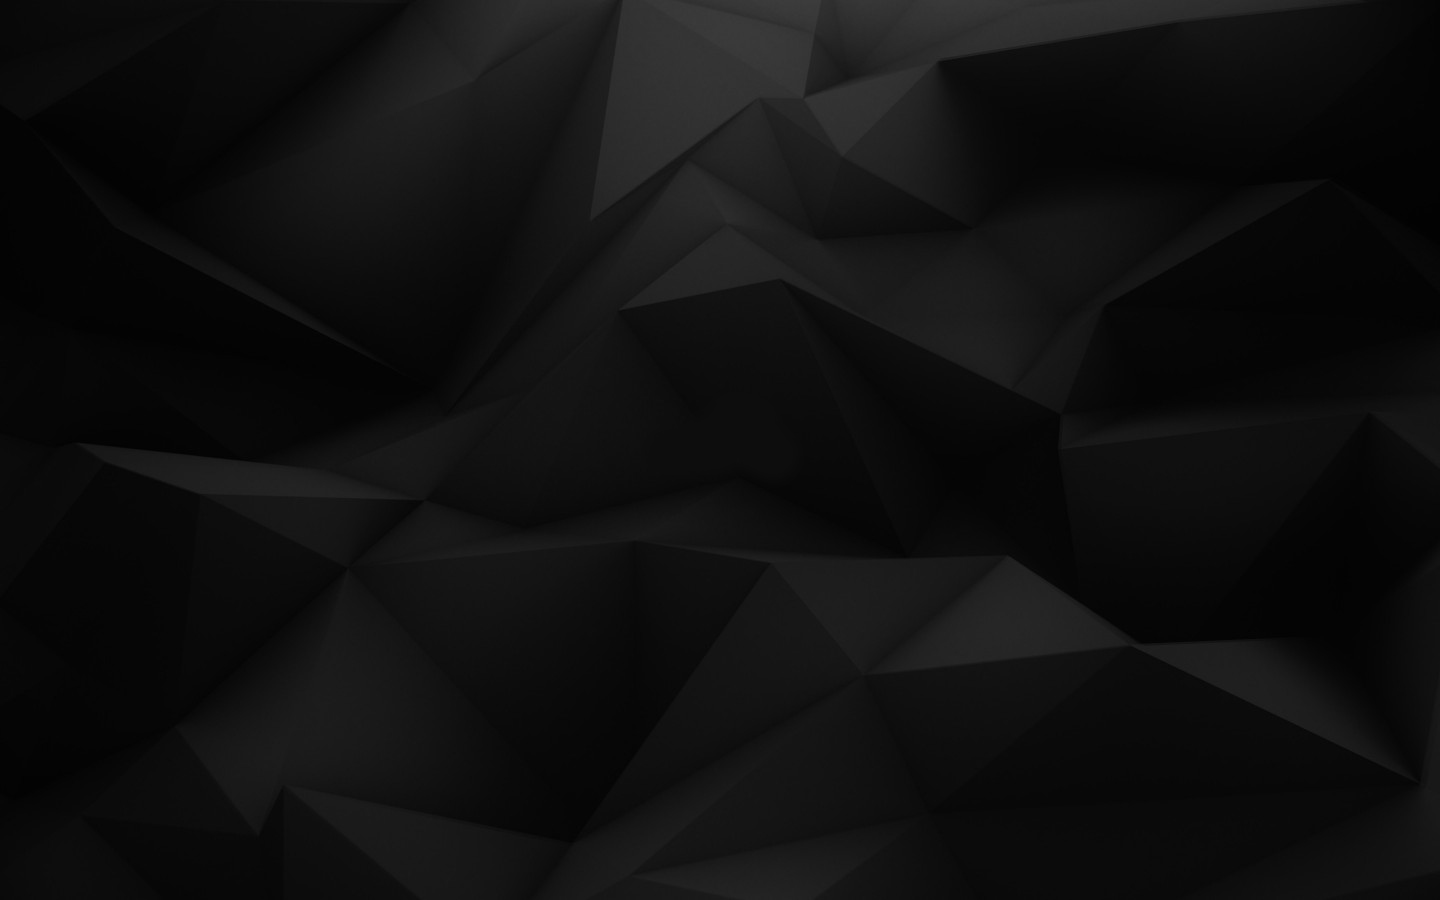
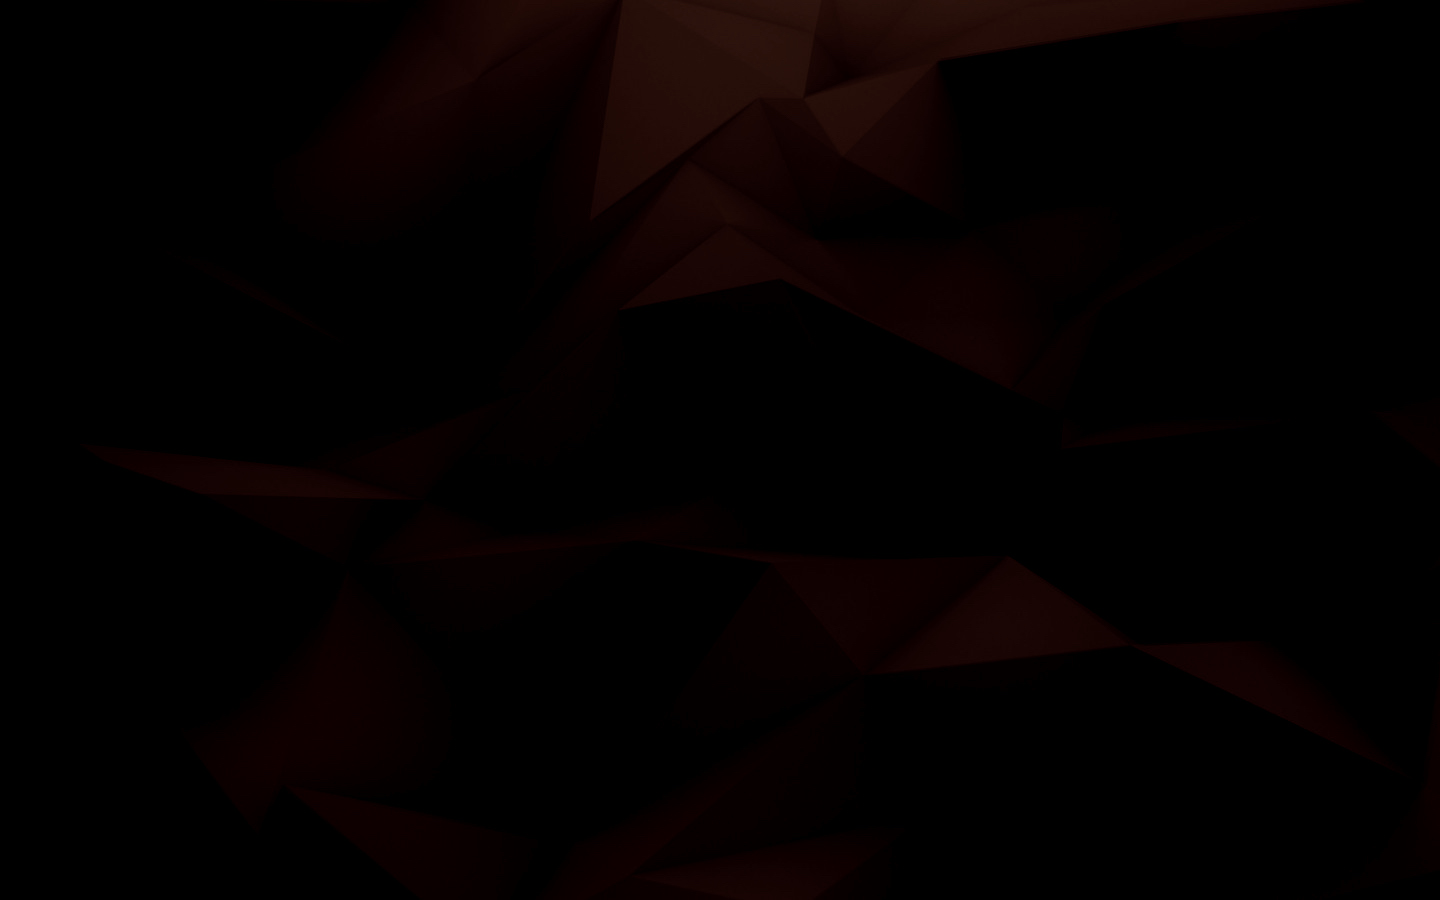
Add new images. Improve styling.

diff --git a/app/src/main/resources/static/_contact.html b/app/src/main/resources/static/_contact.html
@@ -117,28 +117,28 @@
 				<div id="contact-first-row-right" class="mdl-cell mdl-cell--6-col"></div>
 			</div>
 			<div id="contact-second-row" class="mdl-grid">
-				<div id="contact-second-row-left" class="mdl-cell mdl-cell--8-col"></div>
+				<div class="mdl-cell mdl-cell--7-col"></div>
 				<div class="mdl-cell mdl-cell--4-col">
 					<div class="">
 						<div class="mdl-grid">
 							<div class="mdl-cell mdl-cell--1-col"></div>
 							<div class="contact-1 mdl-cell mdl-cell--11-col">
 								<div>
-									<a href="mailto:kayhandehghani@gmail.com">kayhandehghani@gmail.com</a>
+									<a class="my-contacts" id="my-email" href="mailto:kayhandehghani@gmail.com">kayhandehghani@gmail.com</a>
 								</div>
 							</div>
 						</div>
 						<div class="mdl-grid">
 							<div class="mdl-cell mdl-cell--1-col"></div>
 							<div class="contact-2 mdl-cell mdl-cell--11-col">
-								<div>+1 778-858-3785</div>
+								<div class="my-contacts" >+ 1   7 7 8 - 8 5 8 - 3 7 8 5</div>
 							</div>
 						</div>
 						<div class="mdl-grid">
 							<div class="mdl-cell mdl-cell--1-col"></div>
 							<div class="contact-3 mdl-cell mdl-cell--11-col">
 								<div>
-									<a href="https://www.linkedin.com/in/kayhan-dehghani-65889273/"><img
+									<a class="my-contacts" href="https://www.linkedin.com/in/kayhan-dehghani-65889273/"><img
 										src="../img/linkedin.svg" alt="Smiley face" height="25"
 										width="25"></a>
 								</div>
@@ -148,7 +148,7 @@
 							<div class="mdl-cell mdl-cell--1-col"></div>
 							<div class="contact-4 mdl-cell mdl-cell--11-col">
 								<div>
-									<a href="https://github.com/kayhandehghani"><img
+									<a class="my-contacts" href="https://github.com/kayhandehghani"><img
 										src="../img/github-logo-black.svg" alt="Smiley face"
 										height="25" width="25"></a>
 								</div>
@@ -156,6 +156,7 @@
 						</div>
 					</div>
 				</div>
+				<div class="mdl-cell mdl-cell--1-col"></div>
 			</div>
 
 		</div>

diff --git a/app/src/main/resources/static/css/main.css b/app/src/main/resources/static/css/main.css
@@ -1,19 +1,20 @@
 @keyframes shake {
   10%, 90% {
-    transform: translate3d(-1px, 0, 0);
+    transform: translate3d(-3px, 0, 0);
   }
   
   20%, 80% {
-    transform: translate3d(2px, 0, 0);
+    transform: translate3d(3px, 0, 0);
   }
 
   30%, 50%, 70% {
-    transform: translate3d(-4px, 0, 0);
+    transform: translate3d(-1px, 0, 0);
+  }
+  
+  40%, 60% {
+    transform: translate3d(1px, 0, 0);
   }
 
-  40%, 60% {
-    transform: translate3d(4px, 0, 0);
-  }
 }
 
 @keyframes slideInColorLeft {
@@ -141,14 +142,10 @@ h5, h6 {
 .td-row:hover {
 	color: black;
 	background-color: #e61344;
-	animation: shake 0.82s cubic-bezier(.36,.07,.19,.97) both;	
+	animation: shake 0.2s cubic-bezier(.36,.07,.19,.97) both;	
 	transform: translate3d(0, 0, 0);
 	backface-visibility: hidden;
 	perspective: 1000px;
-}
-
-a {
-	color: black;
 }
 
 .mdl-mini-footer {
@@ -159,6 +156,13 @@ a {
 
 .mdl-mini-footer a {
 	font-weight: 100;
+}
+
+#myself:hover {
+	animation: shake 0.2s cubic-bezier(.36,.07,.19,.97) both;	
+	transform: translate3d(0, 0, 0);
+	backface-visibility: hidden;
+	perspective: 1000px;
 }
 
 #spinner {
@@ -180,7 +184,7 @@ a {
 }
 
 #intro_content {
-	background: url('/img/1.jpg');
+	background: url('/img/shake.gif');
 	width: 100%;
 	color: white;
 	padding-bottom: 20px;
@@ -496,15 +500,21 @@ element.style {
 }
 
 #contact-body {
-	background-image: url('/img/2.jpg');
+	background-image: url('/img/1.jpg');
 	background-size:     cover;                   
     background-repeat:   no-repeat;
     background-position: center center;
     color: white;
 }   
 
-#contact-body a, #contact-body p {
+#my-email {
+	letter-spacing: 0.2em;
     color: white;
+    font-size: 18px;
+}
+
+.my-contacts {
+	float: right;
 }
 
 .mdl-textfield.mdl-js-textfield.mdl-textfield--floating-label.is-upgraded {

diff --git a/app/src/main/resources/static/index.html b/app/src/main/resources/static/index.html
@@ -47,7 +47,7 @@
 			<div class="mdl-grid">
 				<div class="mdl-cell mdl-cell--12-col">
 					<h1>
-						<span class="first-letter">B</span>io
+						<span class="first-letter">H</span>ola
 					</h1>
 				</div>
 			</div>
@@ -60,10 +60,7 @@
 				</div>
 				<div class="mdl-cell mdl-cell--1-col"></div>
 				<div class="mdl-cell mdl-cell--6-col">
-					<p id="intro-1">Lorem ipsum dolor sit amet, consectetur
-						adipiscing elit. Vestibulum vestibulum libero ut lorem rutrum
-						ultrices. Quisque vehicula, ligula eu aliquet imperdiet, nisi
-						libero tristique arcu, arcu ultrices.</p>
+					<p id="intro-1">My name is Kayhan.<br/> I am a Software Developer currently working at <a href="https://www.sap.com/index.html" target="_blank">SAP</a> (Vancouver).</p>
 					<p id="intro-2">Lorem ipsum dolor sit amet, consectetur
 						adipiscing elit. Vestibulum vestibulum libero ut lorem rutrum
 						ultrices. Quisque vehicula, ligula eu aliquet imperdiet, nisi

diff --git a/app/src/main/resources/static/_img.html b/app/src/main/resources/static/_img.html
@@ -74,7 +74,7 @@
 				<div class="mdl-cell mdl-cell--12-col">
 					<div class="image-below">
 						<img id="image-preview" src="/img/placeholder.png"
-							alt="image preview" height="500" width="500" />
+							alt="image preview" height="400" width="400" />
 						<div id="img-spinner" class="centered"></div>
 						<p id="image-label"></p>
 					</div>
